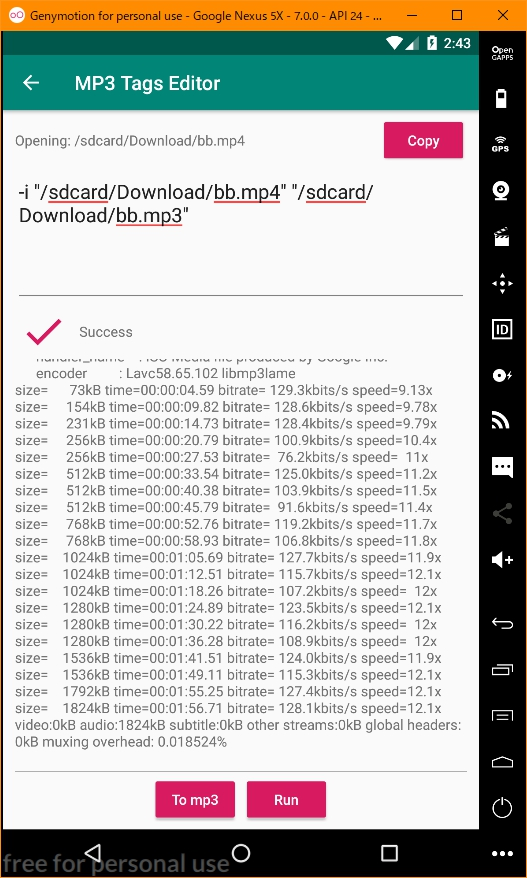
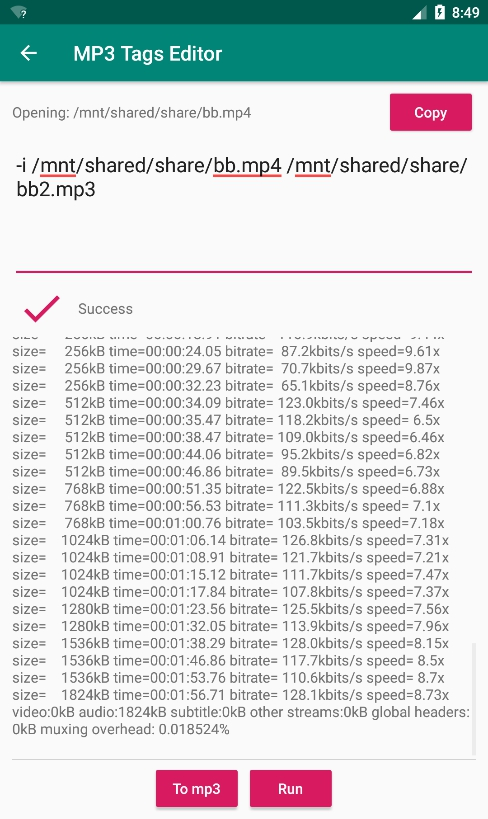
feat(tags): suport other tags

diff --git a/app/src/main/java/com/aoihosizora/mp3tagseditor/ui/view/MainActivity.kt b/app/src/main/java/com/aoihosizora/mp3tagseditor/ui/view/MainActivity.kt
@@ -19,6 +19,7 @@ import android.widget.PopupMenu
 import android.widget.SeekBar
 import com.aoihosizora.mp3tagseditor.MyApplication
 import com.aoihosizora.mp3tagseditor.R
+import com.aoihosizora.mp3tagseditor.model.Metadata
 import com.aoihosizora.mp3tagseditor.ui.IContextHelper
 import com.aoihosizora.mp3tagseditor.ui.contract.MainActivityContract
 import com.aoihosizora.mp3tagseditor.ui.presenter.MainActivityMediaPresenter
@@ -187,10 +188,15 @@ class MainActivity : AppCompatActivity(), IContextHelper, MainActivityContract.V
 
     // endregion
 
-    override fun loadTags(title: String, artist: String, album: String) {
-        edt_title.setText(title)
-        edt_artist.setText(artist)
-        edt_album.setText(album)
+    override fun loadTags(metadata: Metadata) {
+        edt_title.setText(metadata.title)
+        edt_artist.setText(metadata.artist)
+        edt_album.setText(metadata.album)
+        edt_year.setText(metadata.year)
+        edt_track.setText(metadata.track)
+        edt_genre.setText(metadata.genre.toString())
+        edt_album_artist.setText(metadata.albumArtist)
+        edt_composer.setText(metadata.composer)
     }
 
     private val onBtnRestoreClicked: (View) -> Unit = {
@@ -249,7 +255,7 @@ class MainActivity : AppCompatActivity(), IContextHelper, MainActivityContract.V
                 }
             }
         } catch (ex: Exception) {
-            showAlert("", ex.message!!)
+            ex.printStackTrace()
         }
     }
 
@@ -262,8 +268,8 @@ class MainActivity : AppCompatActivity(), IContextHelper, MainActivityContract.V
             }
             val desc = "${tagsPresenter.getFilenameWithoutExt()}_cover"
             try {
-                ImageUtil.saveImage(this, contentResolver, cover, desc, desc)
-                showToast("Save cover success")
+                val path = ImageUtil.saveImage(this, contentResolver, cover, desc, desc)
+                showToast("Save path in $path success")
             } catch (ex: Exception) {
                 ex.printStackTrace()
                 showAlert("Failed", "Failed to save the cover.")
@@ -283,12 +289,16 @@ class MainActivity : AppCompatActivity(), IContextHelper, MainActivityContract.V
                     return@showInputDlg
                 }
 
-                tagsPresenter.setCover(ImageUtil.getBitmapFromImageView(iv_cover))
-                val ok = tagsPresenter.save(text, edt_title.text.toString(), edt_artist.text.toString(), edt_album.text.toString())
+                val metadata = Metadata(
+                    edt_title.text.toString(), edt_artist.text.toString(), edt_album.text.toString(),
+                    edt_year.text.toString(), edt_track.text.toString(), edt_genre.text.toString().toInt(),
+                    edt_album_artist.text.toString(), edt_composer.text.toString()
+                )
+                val ok = tagsPresenter.save(text, metadata, ImageUtil.getBitmapFromImageView(iv_cover))
                 if (ok) {
-                    showAlert("Success", "Success to save $text.")
+                    showToast("Success to save $text")
                 } else {
-                    showAlert("Failed", "Failed to save $text.")
+                    showAlert("Failed", "Failed to save music $text.")
                     save()
                 }
             }, negText = "Cancel")

diff --git a/app/src/main/java/com/aoihosizora/mp3tagseditor/ui/presenter/MainActivityTagsPresenter.kt b/app/src/main/java/com/aoihosizora/mp3tagseditor/ui/presenter/MainActivityTagsPresenter.kt
@@ -1,6 +1,7 @@
 package com.aoihosizora.mp3tagseditor.ui.presenter
 
 import android.graphics.Bitmap
+import com.aoihosizora.mp3tagseditor.model.Metadata
 import com.aoihosizora.mp3tagseditor.ui.contract.MainActivityContract
 import com.aoihosizora.mp3tagseditor.util.ImageUtil
 import com.aoihosizora.mp3tagseditor.util.PathUtil
@@ -33,7 +34,13 @@ class MainActivityTagsPresenter(
 
     override fun restore() {
         tags?.let {
-            view.loadTags(it.title ?: "", it.artist ?: "", it.album ?: "")
+            view.loadTags(
+                Metadata(
+                    title = it.title ?: "", artist = it.artist ?: "", album = it.album ?: "",
+                    year = it.year ?: "", track = it.track ?: "", genre = it.genre,
+                    albumArtist = it.albumArtist ?: "", composer = it.composer ?: ""
+                )
+            )
             if (it.albumImage != null && it.albumImage.isNotEmpty()) {
                 view.loadCover(ImageUtil.getBitmapFromByteArray(it.albumImage))
             } else {
@@ -42,21 +49,23 @@ class MainActivityTagsPresenter(
         }
     }
 
-    override fun setCover(bitmap: Bitmap?) {
-        mp3File?.id3v2Tag?.let {
-            if (bitmap == null) {
-                it.clearAlbumImage()
-            } else {
-                it.setAlbumImage(ImageUtil.getJpegByteArrayFromBitmap(bitmap), "image/jpg")
-            }
-        }
-    }
-
-    override fun save(filename: String, title: String, artist: String, album: String): Boolean {
+    override fun save(filename: String, metadata: Metadata, cover: Bitmap?): Boolean {
         mp3File?.let {
-            it.id3v2Tag.title = title
-            it.id3v2Tag.artist = artist
-            it.id3v2Tag.album = album
+            it.id3v2Tag.title = metadata.title
+            it.id3v2Tag.artist = metadata.artist
+            it.id3v2Tag.album = metadata.album
+            it.id3v2Tag.year = metadata.year
+            it.id3v2Tag.track = metadata.track
+            it.id3v2Tag.genre = metadata.genre
+            it.id3v2Tag.albumArtist = metadata.albumArtist
+            it.id3v2Tag.composer = metadata.composer
+
+            if (cover == null) {
+                it.id3v2Tag.clearAlbumImage()
+            } else {
+                it.id3v2Tag.setAlbumImage(ImageUtil.getJpegByteArrayFromBitmap(cover), "image/jpg")
+            }
+
             return try {
                 it.save(filename)
                 true

diff --git a/app/src/main/java/com/aoihosizora/mp3tagseditor/util/PathUtil.kt b/app/src/main/java/com/aoihosizora/mp3tagseditor/util/PathUtil.kt
@@ -12,11 +12,6 @@ import java.lang.Exception
 
 object PathUtil {
 
-    fun getFilenameFromPath(path: String): String {
-        val sp = path.split(File.separator)
-        return if (sp.isEmpty()) path else sp.last()
-    }
-
     fun getFilenameWithoutExt(filename: String): String {
         val idx = filename.indexOf(".")
         return if (idx == -1) filename else filename.substring(0, idx)
@@ -32,7 +27,7 @@ object PathUtil {
             return uri.path ?: ""
         }
 
-        // 2. content://media/external/images/media/222 < 4.4
+        // 2. content://media/external/audio/media/222
         if (uri.scheme == ContentResolver.SCHEME_CONTENT) {
             val path = getDataColumn(context, uri)
             if (path.isNotBlank()) {
@@ -40,7 +35,8 @@ object PathUtil {
             }
         }
 
-        // 3. content://com.android.providers.media.documents/document/image%3A235700 >= 4.4
+        // 3. content://com.amaze.filemanager/storage_root/storage/emulated/0/xxx
+        // 3. content://com.android.providers.media.documents/document/image%3A235700
         if (uri.scheme == ContentResolver.SCHEME_CONTENT && DocumentsContract.isDocumentUri(context, uri)) {
             if (isExternalStorageDocument(uri)) { // ExternalStorageProvider
                 val docId = DocumentsContract.getDocumentId(uri)
@@ -56,6 +52,9 @@ object PathUtil {
                     java.lang.Long.valueOf(id)
                 )
                 return getDataColumn(context, contentUri)
+            } else if (isAmazeFileManagerDocument(uri)) { // AmazeFileManager
+                val path = uri.path ?: return ""
+                return path.substring("/storage_root".length)
             } else if (isMediaDocument(uri)) { // MediaProvider
                 val docId = DocumentsContract.getDocumentId(uri)
                 val split = docId.split(":").toTypedArray()
@@ -94,6 +93,10 @@ object PathUtil {
 
     private fun isDownloadsDocument(uri: Uri): Boolean {
         return uri.authority == "com.android.providers.downloads.documents"
+    }
+
+    private fun isAmazeFileManagerDocument(uri: Uri): Boolean {
+        return uri.authority == "com.amaze.filemanager"
     }
 
     private fun isMediaDocument(uri: Uri): Boolean {

diff --git a/app/src/main/java/com/aoihosizora/mp3tagseditor/ui/contract/MainActivityContract.kt b/app/src/main/java/com/aoihosizora/mp3tagseditor/ui/contract/MainActivityContract.kt
@@ -3,7 +3,7 @@ package com.aoihosizora.mp3tagseditor.ui.contract
 import android.content.Context
 import android.graphics.Bitmap
 import android.net.Uri
-import com.mpatric.mp3agic.ID3v2
+import com.aoihosizora.mp3tagseditor.model.Metadata
 
 interface MainActivityContract {
 
@@ -16,7 +16,7 @@ interface MainActivityContract {
         fun updateSeekbar(now: String, total: String)
         fun switchBtnIcon(isPlaying: Boolean)
 
-        fun loadTags(title: String, artist: String, album: String)
+        fun loadTags(metadata: Metadata)
         fun loadCover(cover: Bitmap?)
     }
 
@@ -42,7 +42,6 @@ interface MainActivityContract {
         fun restore()
         fun getFilename(): String
         fun getFilenameWithoutExt(): String
-        fun setCover(bitmap: Bitmap?)
-        fun save(filename: String, title: String, artist: String, album: String): Boolean
+        fun save(filename: String, metadata: Metadata, cover: Bitmap?): Boolean
     }
 }

diff --git a/app/src/main/java/com/aoihosizora/mp3tagseditor/util/ImageUtil.kt b/app/src/main/java/com/aoihosizora/mp3tagseditor/util/ImageUtil.kt
@@ -33,7 +33,7 @@ object ImageUtil {
         return stream.toByteArray()
     }
 
-    fun saveImage(context: Context, contentResolver: ContentResolver, bm: Bitmap, title: String, description: String) {
+    fun saveImage(context: Context, contentResolver: ContentResolver, bm: Bitmap, title: String, description: String): String {
         val inserted = Images.Media.insertImage(contentResolver, bm, title, description)
         val f = File(PathUtil.getFilePathByUri(context, Uri.parse(inserted)))
 
@@ -41,5 +41,6 @@ object ImageUtil {
         intent.action = Intent.ACTION_MEDIA_SCANNER_SCAN_FILE
         intent.data = Uri.fromFile(f)
         context.sendBroadcast(intent)
+        return inserted
     }
 }

diff --git a/app/src/main/java/com/aoihosizora/mp3tagseditor/ui/presenter/VideoActivityPresenter.kt b/app/src/main/java/com/aoihosizora/mp3tagseditor/ui/presenter/VideoActivityPresenter.kt
@@ -42,6 +42,8 @@ class VideoActivityPresenter(
     }
 
     override fun toMp3() {
-        view.setScript("-i \"${getPath()}\" \"${PathUtil.getFilenameWithoutExt(getPath())}.mp3\"")
+        fun wrap(str: String): String = if (str.indexOf(" ") != -1) "\"$str\"" else str
+        val mp3Path = PathUtil.getFilenameWithoutExt(getPath()) + ".mp3"
+        view.setScript("-i ${wrap(getPath())} ${wrap(mp3Path)}")
     }
 }

diff --git a/app/src/main/java/com/aoihosizora/mp3tagseditor/model/Metadata.kt b/app/src/main/java/com/aoihosizora/mp3tagseditor/model/Metadata.kt
@@ -1,0 +1,12 @@
+package com.aoihosizora.mp3tagseditor.model
+
+data class Metadata(
+    val title: String,
+    val artist: String,
+    val album: String,
+    val year: String,
+    val track: String,
+    val genre: Int,
+    val albumArtist: String,
+    val composer: String
+)

diff --git a/README.md b/README.md
@@ -4,9 +4,8 @@
 
 ### Functions
 
-+ [x] Read and write title, artist, album
++ [x] Support some of tags
 + [x] Load and write cover(jpg)
-+ [ ] Support other tags
 + [x] Convert video to mp3
 + [x] Crop and save cover
 
@@ -27,6 +26,8 @@
 ![Screenshot](./assets/Screenshot.jpg)
 
 ![Screenshot2](./assets/Screenshot2.jpg)
+
+![Screenshot3](./assets/Screenshot3.jpg)
 
 ### References
 
